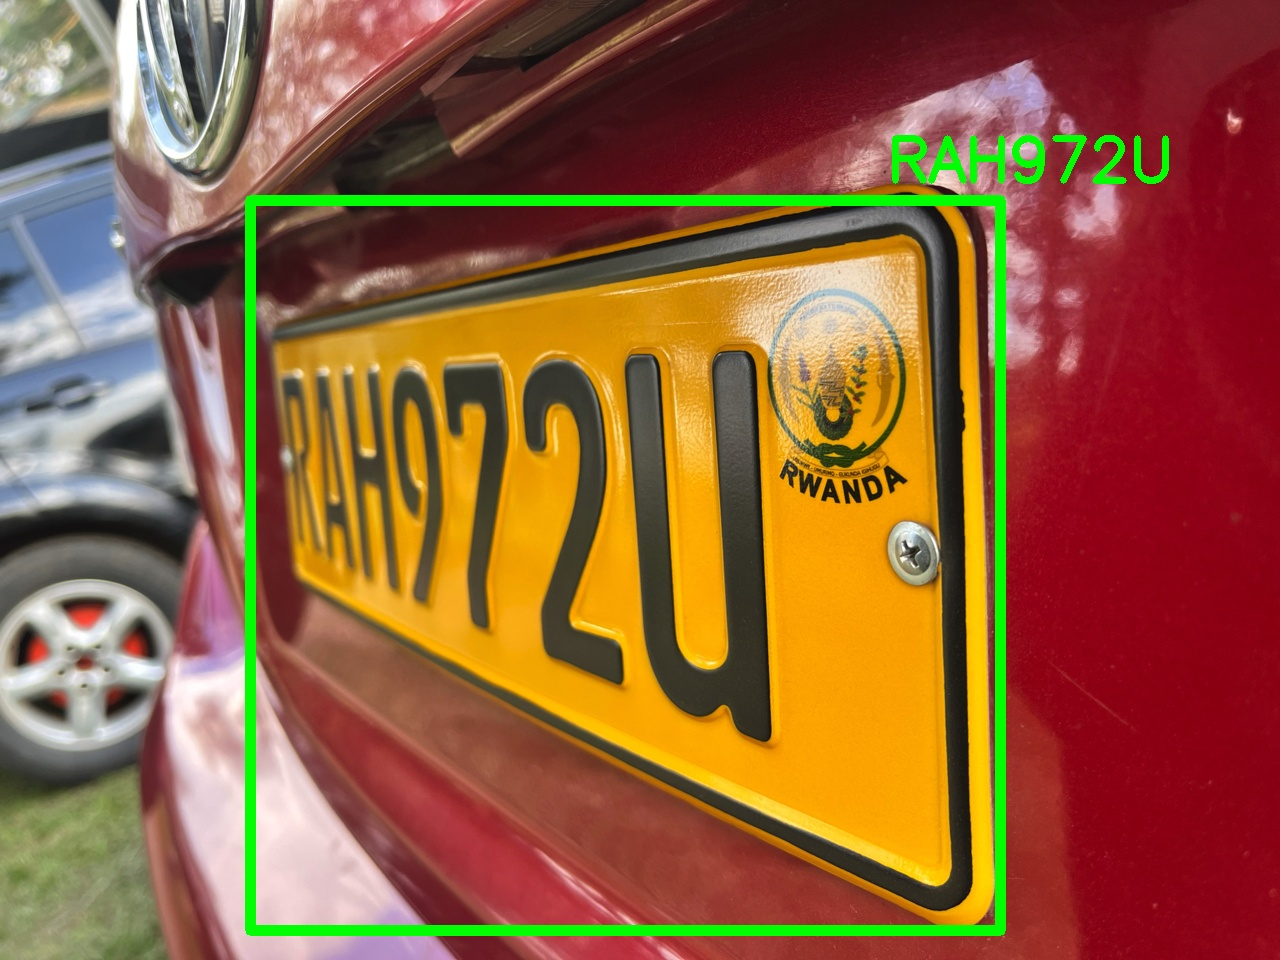
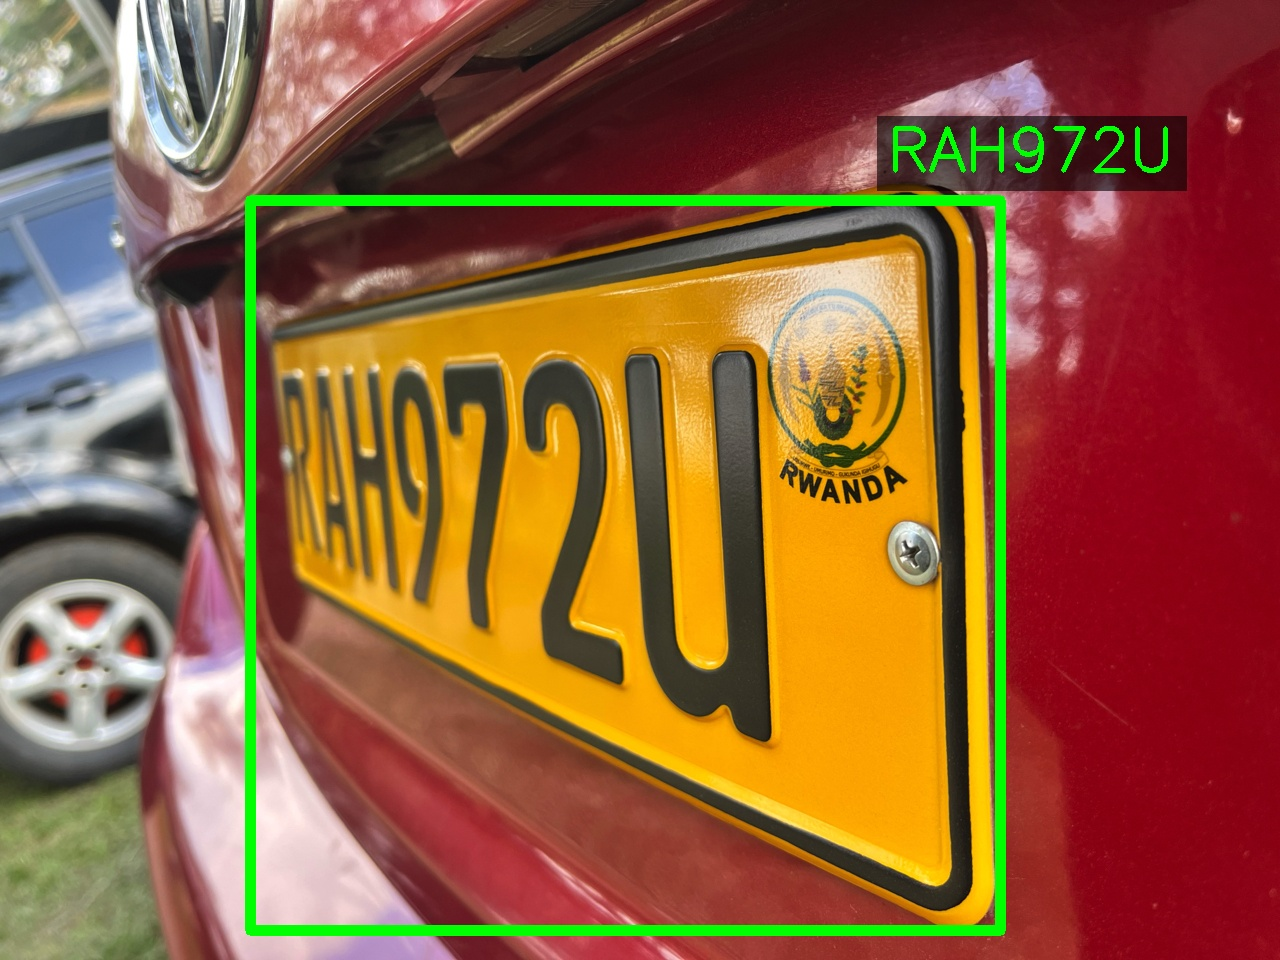
third commit

Changed region(s): [[0.6875, 0.0938, 0.9375, 0.2188]]

diff --git a/11_assignment_001_correction.py b/11_assignment_001_correction.py
@@ -5,12 +5,43 @@ import cv2   # type: ignore
 # Read the input image
 image = cv2.imread("assignment-001-given.jpg")
 
+overlay = image.copy()
+
+text = "RAH972U"
+font = cv2.FONT_HERSHEY_SIMPLEX
+font_scale = 2
+font_thickness = 3
+text_color = (0, 255, 0)  
+bg_color = (0, 0, 0)     
+opacity = 0.6             
+
+# Text position
+text_x, text_y = 887, 170
+
+# Get the size of the text
+(text_width, text_height), baseline = cv2.getTextSize(text, font, font_scale, font_thickness)
+
+# Coordinates for the rectangle (background)
+rect_top_left = (text_x - 10, text_y - text_height - 10)  
+rect_bottom_right = (text_x + text_width + 10, text_y + baseline)
+
+# Draw the filled rectangle on the overlay
+cv2.rectangle(overlay, rect_top_left, rect_bottom_right, bg_color, -1)
+
+# Blend the overlay with the original image
+cv2.addWeighted(overlay, opacity, image, 1 - opacity, 0, image)
+
+# Draw the text on the image (after blending)
+cv2.putText(image, text, (text_x, text_y), font, font_scale, text_color, font_thickness)
+
+# Save the annotated image
+cv2.imwrite("assignment-001-correction-image.jpg", image)
+
+
 # Draw a green rectangle around the license plate
 # Rectangle coordinates: top-left (50, 200), bottom-right (500, 350) - adjust as per requirement
 cv2.rectangle(image, (250, 200), (1000, 930), (0, 255, 0), 10)
 
-
-cv2.putText(image, 'RAH972U', (887, 180), cv2.FONT_HERSHEY_SIMPLEX, 2, (0, 255, 0), 5)
 
 # Save the annotated image
 cv2.imwrite("assignment-001-correction-image.jpg", image)
